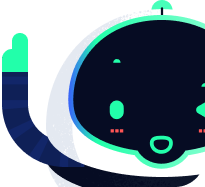
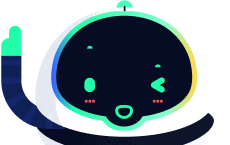
реализация адаптива для страницы регистрации

diff --git a/src/pages/signup/signup.module.scss b/src/pages/signup/signup.module.scss
@@ -9,23 +9,39 @@
   justify-content: center;
   align-items: center;
   flex-direction: column;
+  overflow: hidden;
+  @media screen and (max-width: 600px) {
+    border-radius: $border-radius-30 $border-radius-30 0 0;
+  }
 }
 
 .signupBackgroundImage {
   background-image: url('../../images/roboCreate.png');
   background-size: contain;
+  background-repeat: no-repeat;
   position: absolute;
   bottom: 0;
   right: 0;
   width: 100%;
-  max-width: 205px;
-  aspect-ratio: 1.1;
+  max-width: 270px;
+  margin-right: -60px;
+  aspect-ratio: 1.58;
   z-index: 0;
+
   @media screen and (max-width: 710px) {
-    max-width: 180px;
+    max-width: 250px;
+    margin-right: -60px;
   }
+
   @media screen and (max-width: 650px) {
-    max-width: 150px;
+    max-width: 220px;
+    margin-right: -60px;
+  }
+  @media screen and (max-width: 600px) {
+    position: relative;
+    margin-right: 0;
+    aspect-ratio: 1.58;
+    max-width: 230px;
   }
 }
 
@@ -40,12 +56,24 @@
   font-size: $xl-font-size;
   font-weight: $bold;
   line-height: $button-line-height-130;
+
+  @media screen and (max-width: 600px) {
+    margin-top: 25px;
+    font-size: $l-font-size;
+    letter-spacing: $h5-letter-space;
+    line-height: $button-line-height-150;
+  }
 }
 
 .socialContainer {
   display: flex;
   gap: 30px;
   margin-bottom: 40px;
+
+  @media screen and (max-width: 600px) {
+    gap: 0;
+    margin-bottom: 35px;
+  }
 }
 
 .socialMain {
@@ -54,6 +82,11 @@
   padding: 10px;
   background-color: $persian-blue-focus;
   border-radius: $border-radius-30;
+
+  @media screen and (max-width: 600px) {
+    gap: 10px;
+    padding: 8px;
+  }
 }
 
 .socialSecond {
@@ -62,6 +95,11 @@
   padding: 10px;
   background-color: $persian-blue-focus;
   border-radius: $border-radius-30;
+
+  @media screen and (max-width: 600px) {
+    gap: 10px;
+    padding: 8px;
+  }
 }
 
 .signupInputsContainer {
@@ -74,6 +112,11 @@
   flex-direction: column;
   align-items: center;
   background-color: $default-blue-color;
+
+  @media screen and (max-width: 600px) {
+    padding-left: 20px;
+    padding-right: 20px;
+  }
 }
 
 .signupTitleForm {
@@ -91,6 +134,10 @@
   font-size: $l-font-size;
   font-weight: $bold;
   line-height: $button-line-height-150;
+
+  @media screen and (max-width: 600px) {
+    margin-bottom: 25px;
+  }
 }
 
 .inputsForm {
@@ -100,6 +147,11 @@
   width: 100%;
   align-items: center;
   gap: 50px;
+
+  @media screen and (max-width: 600px) {
+    gap: 40px;
+    margin-bottom: 30px;
+  }
 }
 
 .inputsContainer {
@@ -110,6 +162,13 @@
   grid-template-rows: max-content max-content;
   gap: 20px;
   z-index: 1;
+
+  @media screen and (max-width: 600px) {
+    display: flex;
+    flex-direction: column;
+    margin-bottom: 30px;
+    gap: 20px;
+  }
 }
 
 .inputsPhoneContainer {
@@ -119,6 +178,13 @@
   gap: 15px;
   align-items: center;
   justify-content: center;
+
+  @media screen and (max-width: 600px) {
+    max-width: none;
+    display: grid;
+    justify-content: center;
+    grid-template-columns: max-content 1fr;
+  }
 }
 
 
@@ -210,10 +276,12 @@
   line-height: $button-line-height-150;
   margin-bottom: 40px;
   z-index: 1;
+  @media screen and (max-width: 600px) {
+    margin-bottom: 30px;
+  }
 }
 
 .signinLink {
   color: $white-color;
   text-decoration-line: underline;
 }
-
